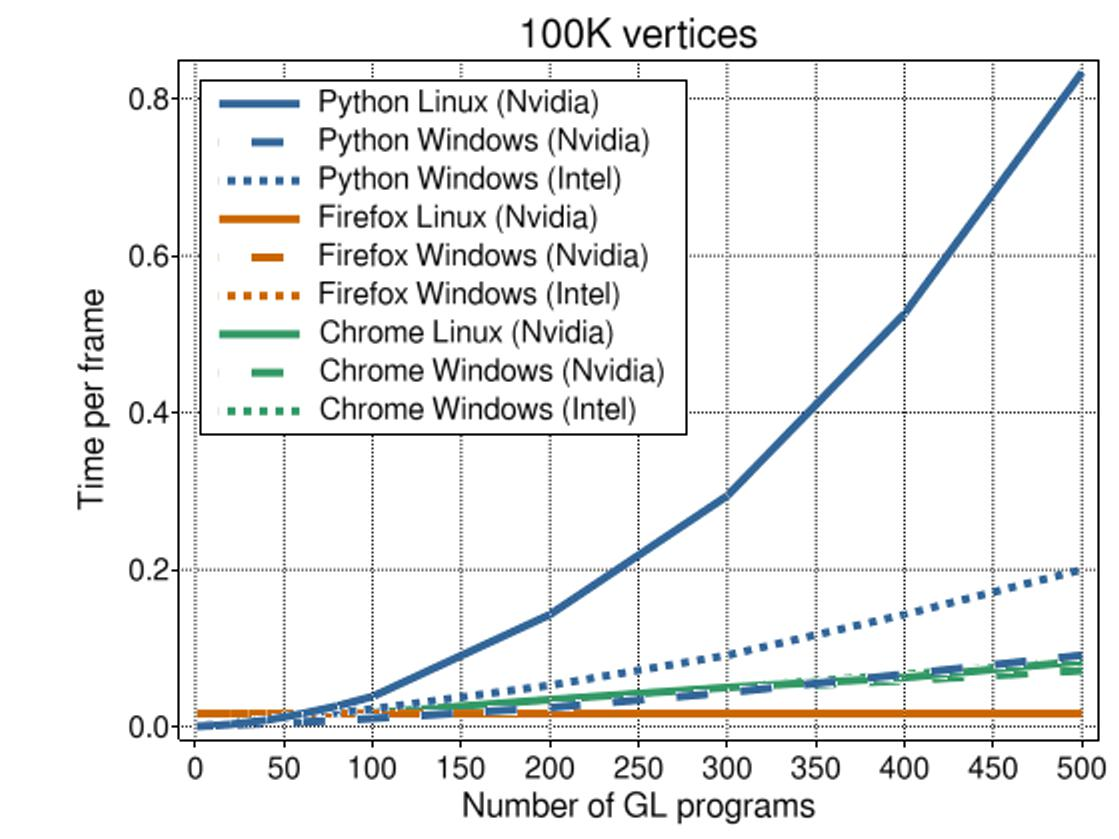
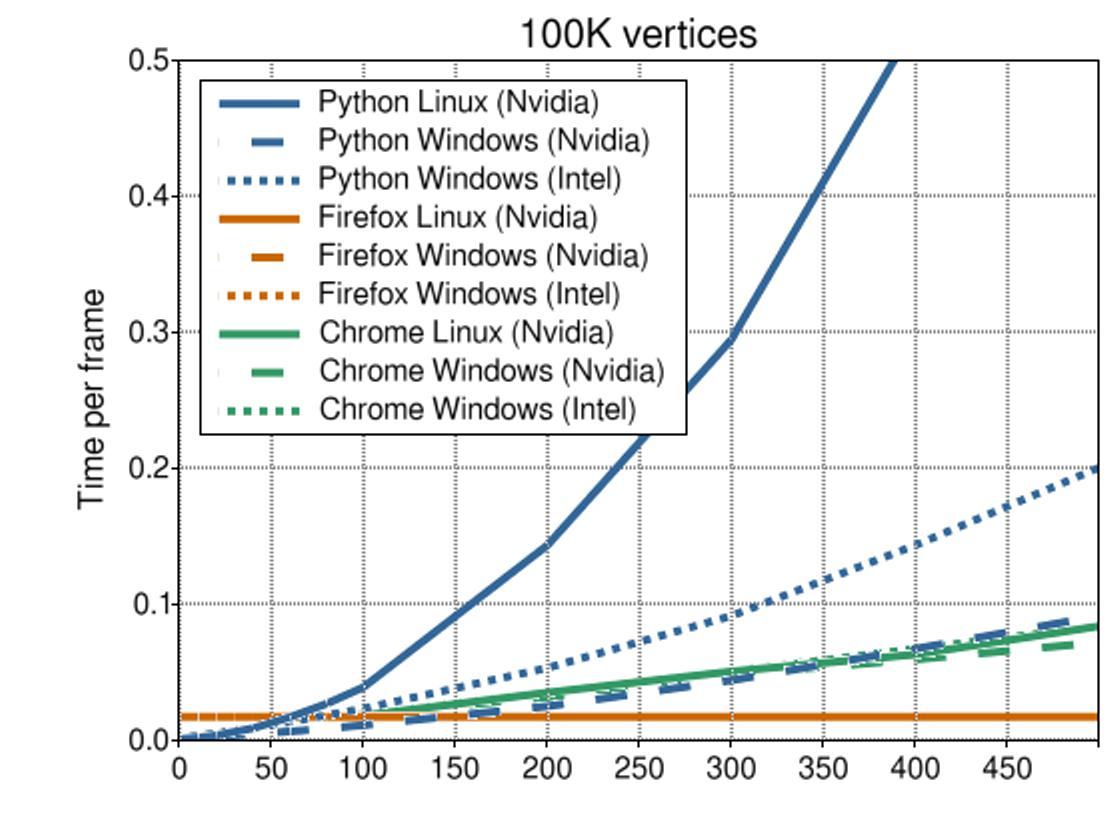
fixed scale

Changed region(s): [[0.0912, 0.031, 1.0, 0.9917], [0.9419, 0.4648, 0.9723, 0.4958], [0.395, 0.062, 0.4254, 0.093]]

diff --git a/benchmark_collections_vis.py b/benchmark_collections_vis.py
@@ -43,12 +43,12 @@ def plot(title, data, colors, linestyles):
     for key, d in data.items():
         i +=1 
         mm = list(sorted(d))
-        vv.plot(mm, [d[k] for k in mm], lw=lw, lc=colors[i], ls=linestyles[i])
+        vv.plot(mm, [1/d[k] for k in mm], lw=lw, lc=colors[i], ls=linestyles[i])
     
-    a.SetLimits((0, 500), (0, 99))
+    a.SetLimits((0, 500), (0, 0.5))
     a.axis.showGrid = True
     a.axis.xLabel = 'Number of GL programs'
-    a.axis.yLabel = 'FPS'
+    a.axis.yLabel = 'Time per frame'
     f.relativeFontSize = 1.2
     
     vv.legend(*data.keys())
@@ -78,7 +78,7 @@ for key, d in measurements_100k.items():
         continue
     i +=1 
     mm = list(sorted(d))
-    vv.plot(mm, [d[k] for k in mm], lw=4, lc=colors[i], ls=linestyles[i], alpha=0.15, axesAdjust=False)
+    vv.plot(mm, [1/d[k] for k in mm], lw=4, lc=colors[i], ls=linestyles[i], alpha=0.15, axesAdjust=False)
 vv.xlabel('Number of GL buffers')
 
 # vv.screenshot('benchmark_collections_resultX.jpg', bg='w')
